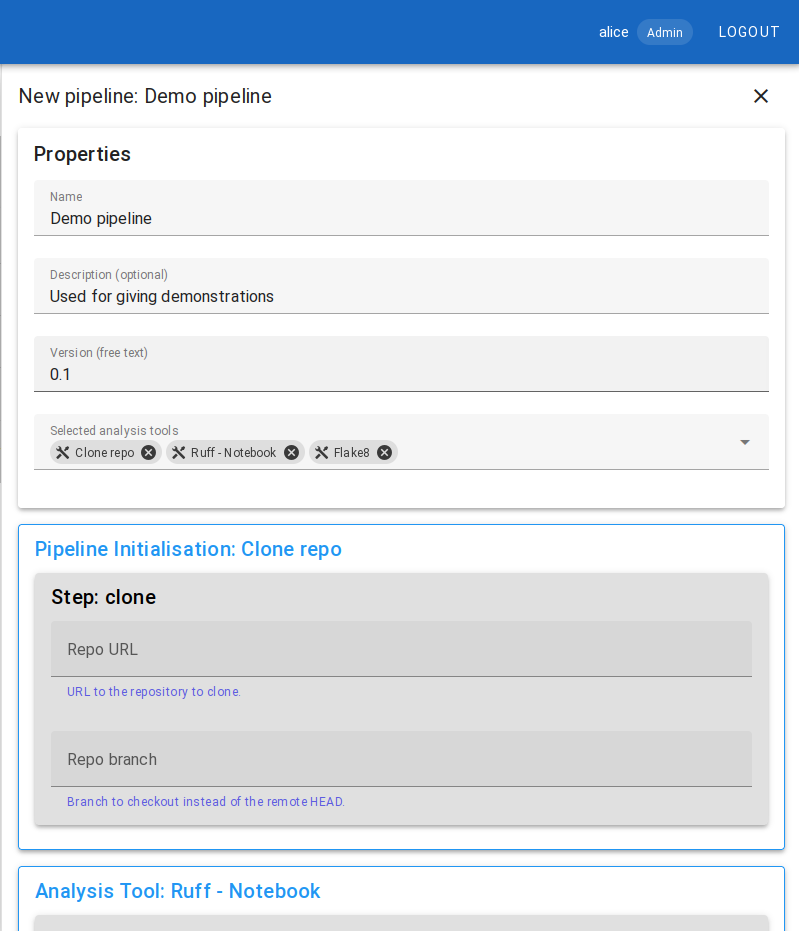
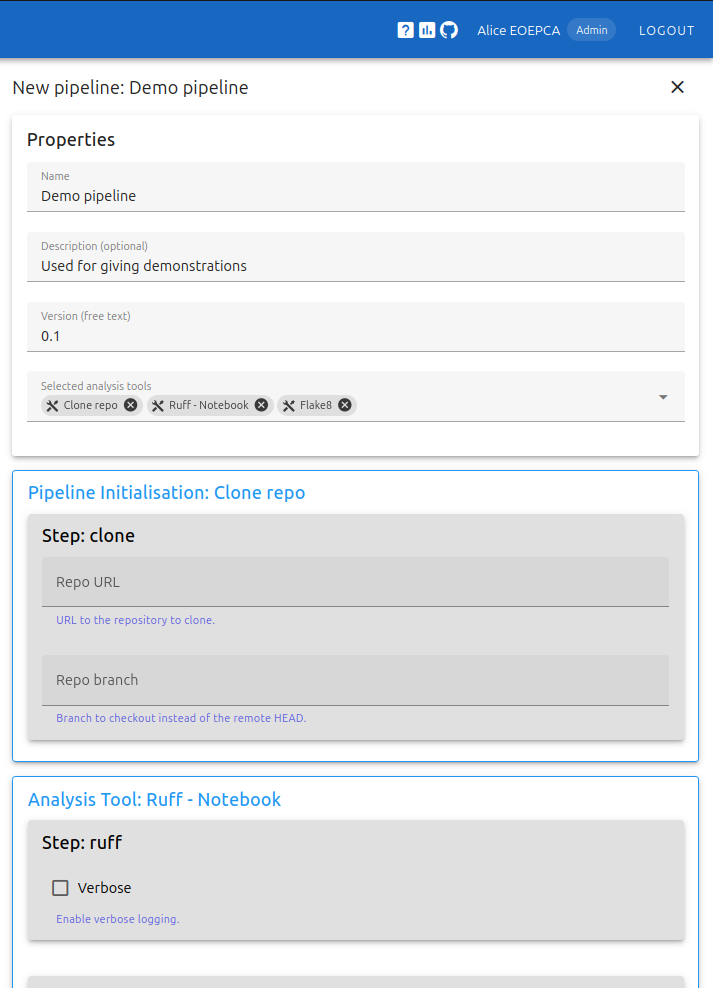
Added analysis dashboards in the documentation

Changed region(s): [[0.0, 0.0, 1.0, 1.0]]

diff --git a/docs/usage/user-manual.md b/docs/usage/user-manual.md
@@ -25,7 +25,7 @@ In a default setup, the authentication is performed using the EOEPCA Identity an
 
 ![Login Form](img/user-manual/iam-login.png)
 
-Note: A confirmation is requested the first time a GitHub account is used to authenticate in an EOEPCA service. In particular it is asked if the user name and email address may be shared with the service.
+> Note: A confirmation is requested the first time a GitHub account is used to authenticate in an EOEPCA service. In particular it is asked if the user name and email address may be shared with the service.
 
 Upon successful authentication, the web browser is automatically redirected to the service portal. The navigation bar now shows the user name and a **LOGOUT** link.
 
@@ -56,7 +56,7 @@ Each row provides the name and version a pipeline as well as a series of action 
 
 - Use <img src="../img/user-manual/mdi-information-blue.png" style="height:20px; width:20px"/> to display the pipeline properties, including the list of integrated tools.
 - Use <img src="../img/user-manual/mdi-monitor-eye-blue.png" style="height:20px; width:20px"/> to navigate to the **Monitoring** page and inspect the past and on-going executions of the related pipeline.
-- Use <img src="../img/user-manual/mdi-flash-red.png" style="height:20px; width:20px"/> to execute the analysis pipeline.
+- Use <img src="../img/user-manual/mdi-flash-pink.png" style="height:20px; width:20px"/> to execute the analysis pipeline.
 
 If you own the pipeline, a 3-dot <img src="../img/user-manual/mdi-dots-vertical-black.png" style="height:20px; width:20px"/> menu icon is provided giving access to two additional functions:
 
@@ -115,7 +115,7 @@ A dialog box appears asking for confirmation.
 
 Note: The Application Quality service currently supports on-demand pipeline executions. In a future release, it will be possible to configure unattended executions triggered by external events.
 
-In order to execute an analysis pipeline, navigate to the **Pipelines** page, identify the pipeline to be executed and click on its <img src="../img/user-manual/mdi-flash-red.png" style="height:20px; width:20px"/> icon. The pipeline execution panel slides from the right side of the window. This panel contains a form with the input parameters of the analysis tools integrated in the pipeline.
+In order to execute an analysis pipeline, navigate to the **Pipelines** page, identify the pipeline to be executed and click on its <img src="../img/user-manual/mdi-flash-pink.png" style="height:20px; width:20px"/> icon. The pipeline execution panel slides from the right side of the window. This panel contains a form with the input parameters of the analysis tools integrated in the pipeline.
 
 Keep or modify the parameters default values as necessary, then click on the **EXECUTE** button.
 
@@ -141,12 +141,12 @@ Upon successful completion of the pipeline execution, the status becomes **Succe
 Each row provides the name and version of the pipeline as well as action icons:
 
 - Use <img src="../img/user-manual/mdi-information-blue.png" style="height:20px; width:20px"/> to display the pipeline execution properties.
-- Use <img src="../img/user-manual/mdi-file-chart-blue.png" style="height:20px; width:20px"/> to navigate to the **Reports** page and inspect the execution report of each tool integrated in the pipeline.
-
+- Use <img src="../img/user-manual/mdi-note-text-outline-blue.png" style="height:20px; width:20px"/> to navigate to the **Reports** page and inspect the execution report of each tool integrated in the pipeline.
+- Use <img src="../img/user-manual/mdi-chart-box-outline-cyan.png" style="height:20px; width:20px"/> to display the dashboard associated with this pipeline execution in **Grafana** (see [Analysis Dashboards](analysis-dashboards.md)).
 
 ### Inspection of the execution reports
 
-Select **Monitoring** in the side menu to access the list of past and on-going executions. Select an analysis pipeline in the list above the page to reveal its most recent executions in the table, then identify an execution and click on its associated <img src="../img/user-manual/mdi-file-chart-blue.png" style="height:20px; width:20px"/> icon. The **Reports** page is then displayed, showing the list of reports generated during the pipeline execution.
+Select **Monitoring** in the side menu to access the list of past and on-going executions. Select an analysis pipeline in the list above the page to reveal its most recent executions in the table, then identify an execution and click on its associated <img src="../img/user-manual/mdi-note-text-outline-blue.png" style="height:20px; width:20px"/> icon. The **Reports** page is then displayed, showing the list of reports generated during the pipeline execution.
 
 Alternatively, select **Reports** in the side menu and select on the page the pipeline and the execution start time to reveal the generated reports.
 
@@ -156,7 +156,6 @@ Individual reports may be displayed by clicking on their <img src="../img/user-m
 
 ![Execution Report of the "pylint" Analysis Tool](img/user-manual/app-analysis-pipeline-execution-report.png)
 
+The reports may also be visualised in individual dashboards in Grafana by clicking on their <img src="../img/user-manual/mdi-chart-box-outline-cyan.png" style="height:20px; width:20px"/> icon (see [Analysis Dashboards](analysis-dashboards.md)).
 
-## Analysis Dashboards
-
-This feature is in preparation and will be available in a future release of the Application Quality service.  
+!["Pylint Report" Dashboard in Grafana](img/user-manual/grafana-pylint-report.png)

diff --git a/docs/usage/analysis-dashboards.md b/docs/usage/analysis-dashboards.md
@@ -1,0 +1,52 @@
+# Analysis Dashboards
+
+The Application Quality Service integrates with **Grafana** to visualise the various reports and metrics generated during pipeline executions.
+
+Dashboards are accessible from the **Service User Portal** by clicking the dashboards icon <img src="../img/user-manual/mdi-chart-box.png" style="height:20px; width:20px"/> in the navigation bar. Each report and pipeline is also associated with a dedicated dashboard in Grafana, accessible through the dashboards icon <img src="../img/user-manual/mdi-chart-box.png" style="height:20px; width:20px"/> next to each row on the **Pipelines** and **Reports** page.
+
+> Grafana Open Source Software (OSS) enables you to query, visualise, alert on, and explore your metrics, logs, and traces wherever they're stored. [...] Grafana OSS provides you with tools to display that data on live dashboards with insightful graphs and visualizations.
+
+You can access Grafana documentation [here](https://grafana.com/docs/grafana/latest/).
+
+<!-- Add screenshots of the UI with the dashboard icon -->
+
+## Authentication
+
+Authentication works the same way as in the **Service User Portal**. On the Grafana login page, click the button at the bottom of the form to be redirected to the IAM login page.
+
+Users can log in with their IAM credentials, the same that they use for the Service User Portal, as both services rely on the same IAM instance.
+
+![Grafana login](img/user-manual/grafana-login.png)
+
+## Dashboards
+
+### Default Dashboards
+
+The default dashboards are organised into these two folders:
+
+- **Application Quality Service**: contains dashboards related to pipelines and pipeline runs.
+
+- **Application Quality Service Reports**: contains dashboards related to individual tool reports.
+
+![Grafana dashboards](img/user-manual/grafana-dashboards.png)
+
+A set of preconfigured library panels is provided. Users can import these panels into their own dashboards as needed. New panels may be created as well.
+
+![Library panels](/docs/usage/img/user-manual/grafana-library-panels.png)
+
+> NOTE: Some panels use **dashboard variables** in their SQL requests and will display errors if these are not correctly set up. You can create them by navigating to the dashboard settings: **Edit** > **Settings** > **Variables**.
+
+![Grafana settings - Variables](/docs/usage/img/user-manual/grafana-settings-variables.png) <!-- This should show `executions` instead of `executions_admin` -->
+
+### Custom Dashboards
+
+Users have the ability to customise their dashboards by reorganising panels, creating new dashboards, or adding new visualizations based on their executed pipelines and job reports.
+
+- Dashboards documentation: https://grafana.com/docs/grafana/latest/dashboards/
+- Panels documentation: https://grafana.com/docs/grafana/latest/panels-visualizations/
+
+> NOTE: When customising or creating new panels, the PostgreSQL data source must be selected to ensure the proper retrieval of the Application Quality metrics and reports.
+
+<!-- ## Users and Access
+
+Each user has access to a **personnalised database view** that lists only their own pipeline executions and job reports. Grafana dashboards reflect this filtered data, ensuring each user sees only their relevant information. -->

diff --git a/docs/index.md b/docs/index.md
@@ -61,6 +61,12 @@ Operators may use the Web Portal to manage the integrated tools, configure pipel
 usage metrics.
 Users may use the Web Portal to monitor the execution of the pipelines and access the results.
 
+## Analysis Dashboards
+
+The *Application Quality* BB integrates with Grafana to visualize the various reports and metrics generated during pipeline executions.
+
+Default panels and dashboards are provided. Users may use the provided panels to create new dashboards.
+
 ## Pipeline Automation
 
 The *Application Quality* BB supports the automated execution of pipelines triggered by updates to
